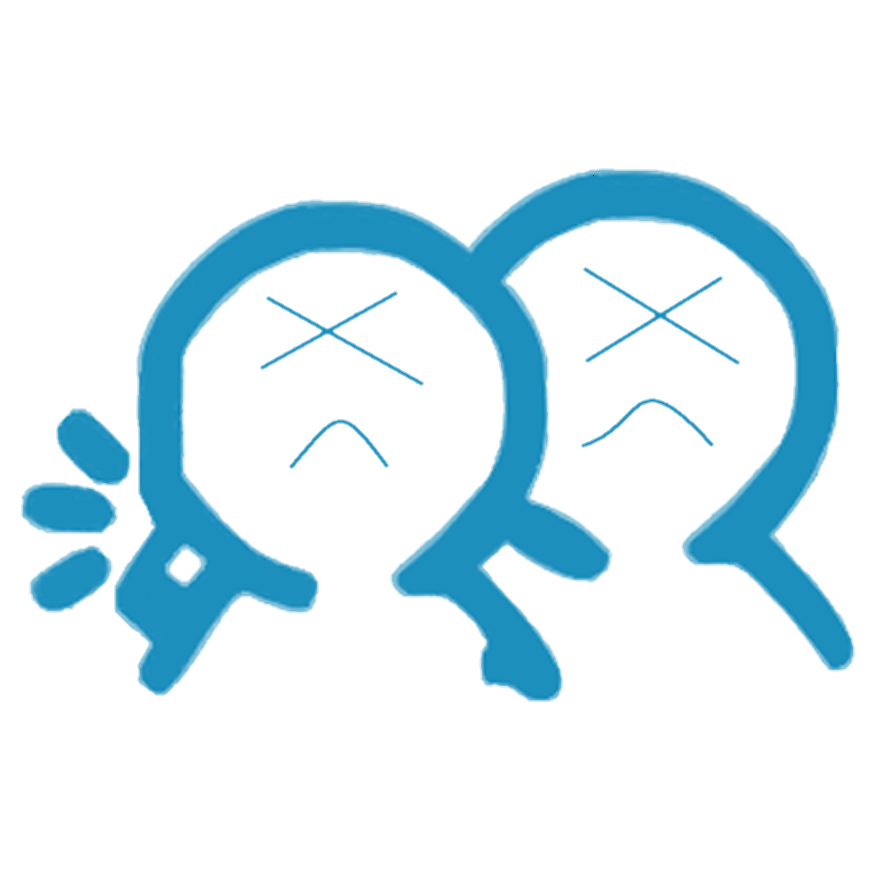
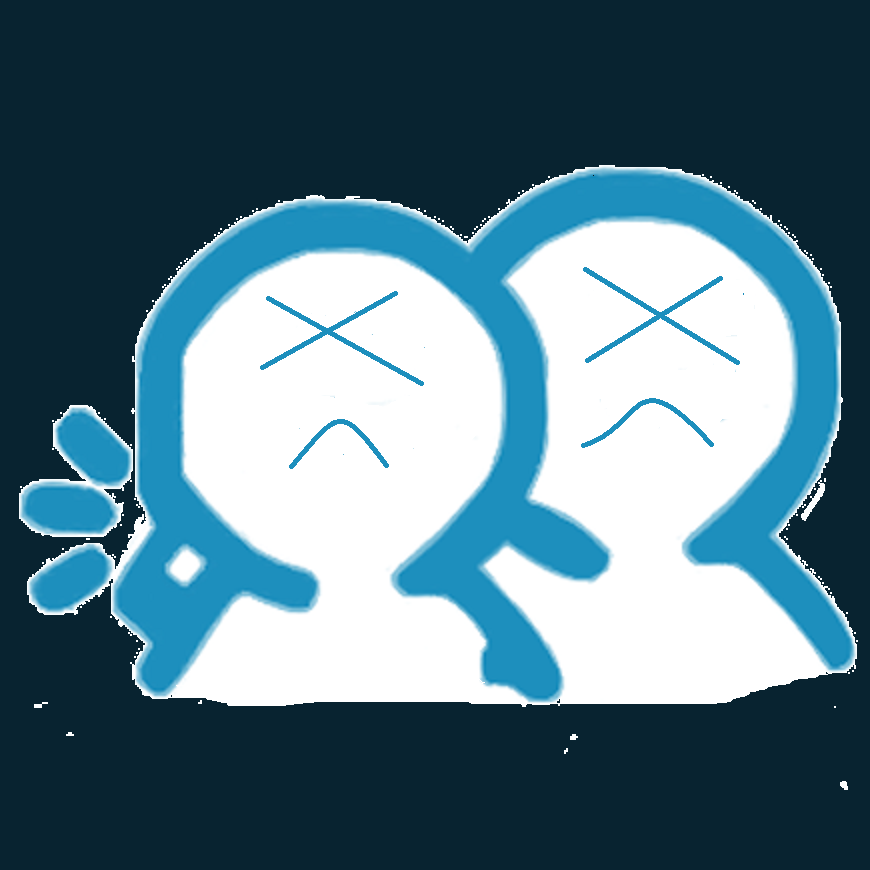
errorページ仮

diff --git a/public/500.html b/public/500.html
@@ -3,40 +3,73 @@
 <head>
   <title>Amica - 500Error</title>
   <meta charset="UTF-8">
-  <link rel="stylesheet" href="error.css">
+
+  <link rel="preconnect" href="https://fonts.googleapis.com">
+  <link rel="preconnect" href="https://fonts.gstatic.com" crossorigin>
+  <link href="https://fonts.googleapis.com/css2?family=Kiwi+Maru&display=swap" rel="stylesheet">
   <meta name="viewport" content="width=device-width,initial-scale=1">
+  <style>
+    .rails-default-error-page {
+      background-color: #EFEFEF;
+      color: #2E2F30;
+      text-align: center;
+      font-family: arial, sans-serif;
+      margin: 0;
+    }
+
+    .rails-default-error-page div.dialog {
+      width: 95%;
+      max-width: 33em;
+      margin: 4em auto 0;
+    }
+
+    .rails-default-error-page div.dialog > div {
+      border: 1px solid #CCC;
+      border-right-color: #999;
+      border-left-color: #999;
+      border-bottom-color: #BBB;
+      border-top: #B00100 solid 4px;
+      border-top-left-radius: 9px;
+      border-top-right-radius: 9px;
+      background-color: white;
+      padding: 7px 12% 0;
+      box-shadow: 0 3px 8px rgba(50, 50, 50, 0.17);
+    }
+
+    .rails-default-error-page h1 {
+      font-size: 100%;
+      color: #730E15;
+      line-height: 1.5em;
+    }
+
+    .rails-default-error-page div.dialog > p {
+      margin: 0 0 1em;
+      padding: 1em;
+      background-color: #F7F7F7;
+      border: 1px solid #CCC;
+      border-right-color: #999;
+      border-left-color: #999;
+      border-bottom-color: #999;
+      border-bottom-left-radius: 4px;
+      border-bottom-right-radius: 4px;
+      border-top-color: #DADADA;
+      color: #666;
+      box-shadow: 0 3px 8px rgba(50, 50, 50, 0.17);
+    }
+  </style>
 </head>
-<svg viewBox="0 0 800 600">
-  <symbol id="s-text">
-    <text text-anchor="middle"
-          x="50%"
-          y="35%"
-          class="text--line"
-    >
-      500InternServer
-    </text>
 
-    <text text-anchor="middle"
-          x="50%"
-          y="68%"
-          class="text--line2"
-    >
-      ServerError
-    </text>
+<body class="rails-default-error-page">
 
-  </symbol>
+<!-- This file lives in public/404.html -->
+<div class="dialog">
+  <div>
+    <img src="error2.png" alt="エラーの画像" width="150px" height="150px">
+    <h1>サーバーの内部でエラーが発生してしまいました</h1>
+    <p>お手数ですがお問い合わせの方から問い合わせください</p>
 
-  <g class="g-ants">
-    <use xlink:href="#s-text"
-         class="text-copy"></use>
-    <use xlink:href="#s-text"
-         class="text-copy"></use>
-    <use xlink:href="#s-text"
-         class="text-copy"></use>
-    <use xlink:href="#s-text"
-         class="text-copy"></use>
-    <use xlink:href="#s-text"
-         class="text-copy"></use>
-  </g>
-</svg>
+  </div>
+  <p>500 Internal Server Error</p>
+</div>
+</body>
 </html>

diff --git a/public/422.html b/public/422.html
@@ -1,42 +1,13 @@
 <!DOCTYPE html>
 <html lang = "ja">
 <head>
-  <title>Amica - 422Error</title>
+  <title>Amica - 404Error</title>
   <meta charset="UTF-8">
   <link rel="stylesheet" href="error.css">
+  <link rel="preconnect" href="https://fonts.googleapis.com">
+  <link rel="preconnect" href="https://fonts.gstatic.com" crossorigin>
+  <link href="https://fonts.googleapis.com/css2?family=Kiwi+Maru&display=swap" rel="stylesheet">
   <meta name="viewport" content="width=device-width,initial-scale=1">
+
 </head>
-<svg viewBox="0 0 800 600">
-  <symbol id="s-text">
-    <text text-anchor="middle"
-          x="50%"
-          y="35%"
-          class="text--line"
-    >
-      422Entity
-    </text>
-
-    <text text-anchor="middle"
-          x="50%"
-          y="68%"
-          class="text--line2"
-    >
-      Error
-    </text>
-
-  </symbol>
-
-  <g class="g-ants">
-    <use xlink:href="#s-text"
-         class="text-copy"></use>
-    <use xlink:href="#s-text"
-         class="text-copy"></use>
-    <use xlink:href="#s-text"
-         class="text-copy"></use>
-    <use xlink:href="#s-text"
-         class="text-copy"></use>
-    <use xlink:href="#s-text"
-         class="text-copy"></use>
-  </g>
-</svg>
-</html>
+<h1><img src="error2.png" alt="エラーの画像" width="150px" height="150px">422error</h1>

diff --git a/public/404.html b/public/404.html
@@ -4,10 +4,18 @@
   <title>Amica - 404Error</title>
   <meta charset="UTF-8">
   <link rel="stylesheet" href="error.css">
+  <link rel="preconnect" href="https://fonts.googleapis.com">
+  <link rel="preconnect" href="https://fonts.gstatic.com" crossorigin>
+  <link href="https://fonts.googleapis.com/css2?family=Kiwi+Maru&display=swap" rel="stylesheet">
+  <link href='https://fonts.googleapis.com/css?family=Cabin+Condensed:700' rel='stylesheet' type='text/css'>
   <meta name="viewport" content="width=device-width,initial-scale=1">
+
 </head>
-<svg viewBox="0 0 800 600">
+<body class="text-center">
+<img src="error2.png" style="width: 100px;height:100px;">
+  <svg viewBox="0 0 800 600">
   <symbol id="s-text">
+
     <text text-anchor="middle"
           x="50%"
           y="35%"
@@ -21,7 +29,7 @@
           y="68%"
           class="text--line2"
     >
-      Error
+      error
     </text>
 
   </symbol>
@@ -38,5 +46,7 @@
     <use xlink:href="#s-text"
          class="text-copy"></use>
   </g>
+
+</body>
 </svg>
 </html>

diff --git a/public/error.css b/public/error.css
@@ -4,16 +4,9 @@ HTML, BODY {
 BODY {
     background: #082330;
     background-size: 0.12em 100%;
-
     font: 16em/1 Arial;
 }
-
 .text--line {
-
-    font-size: 0.3em;
-}
-.text--line2{
-
     font-size: 0.5em;
 }
 svg {
